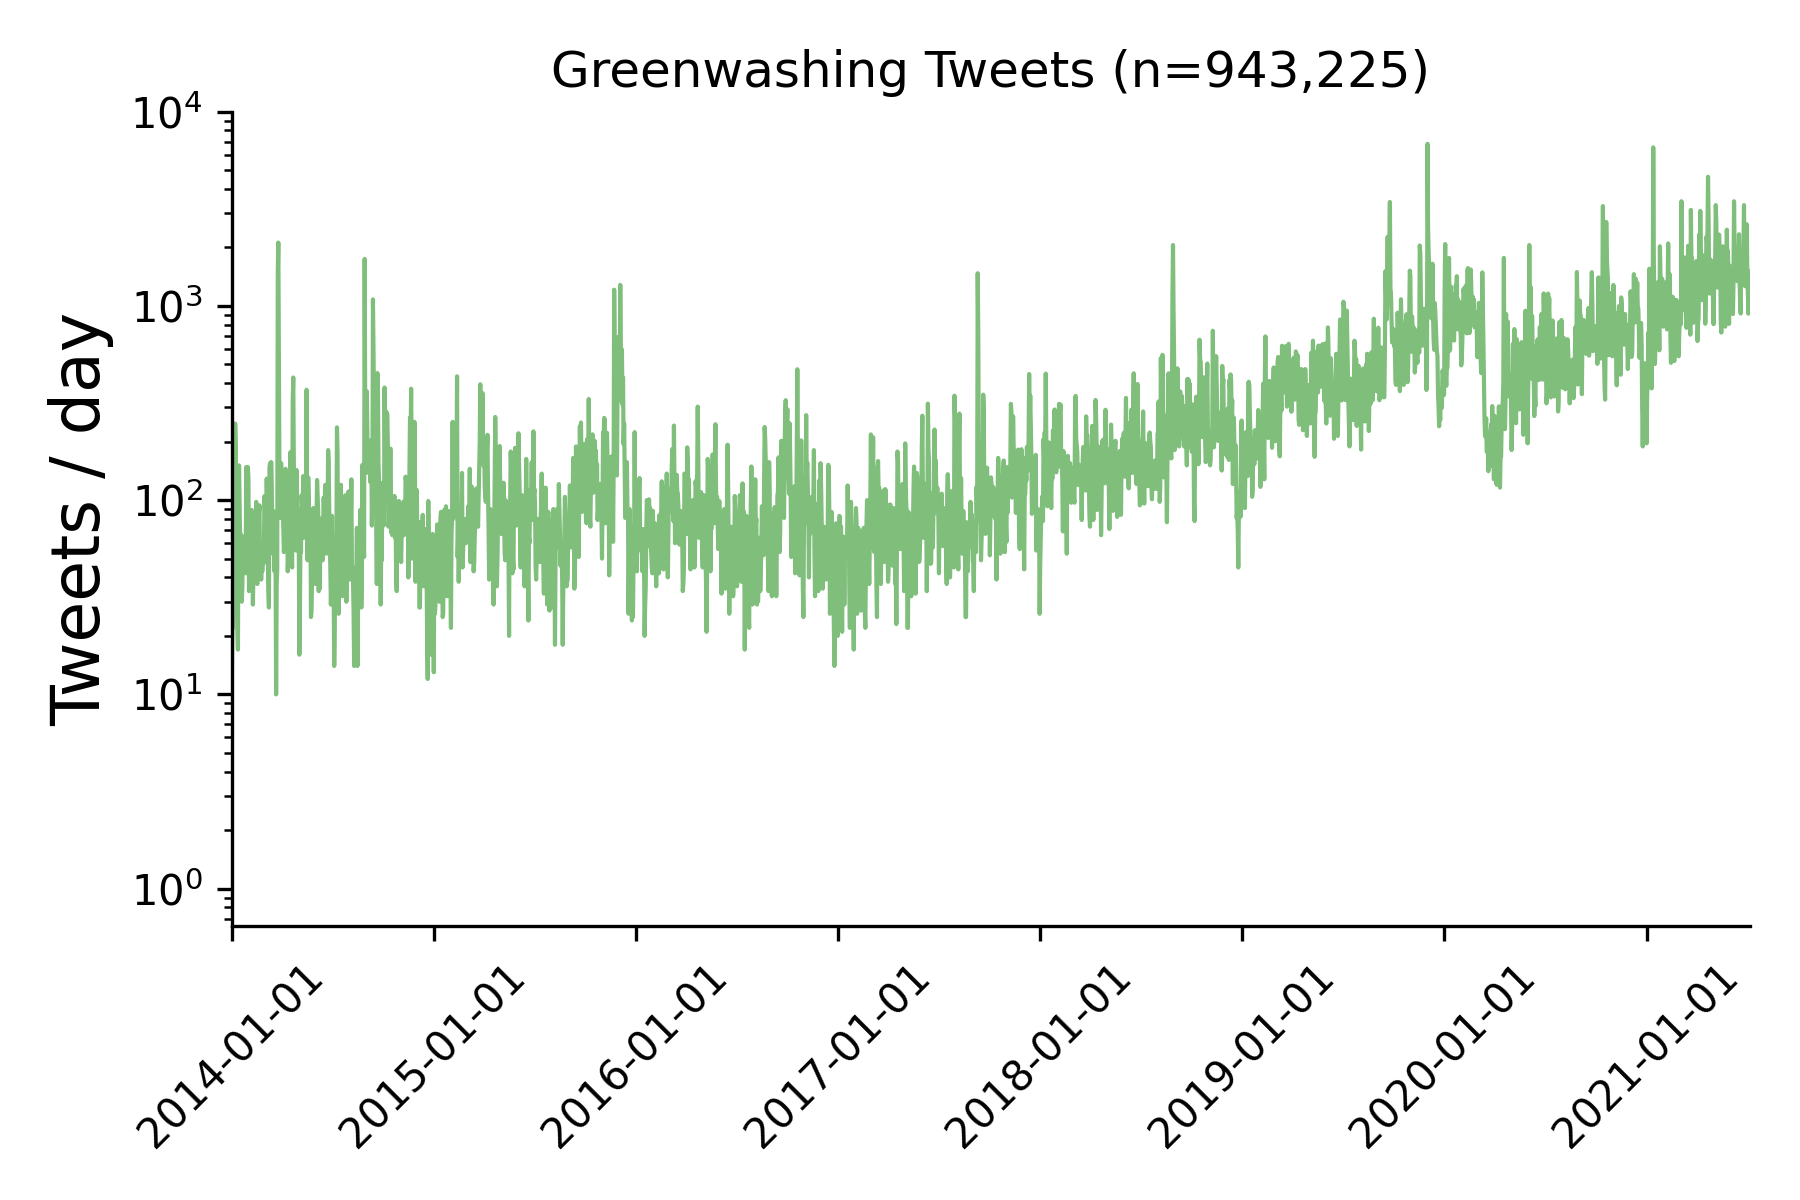
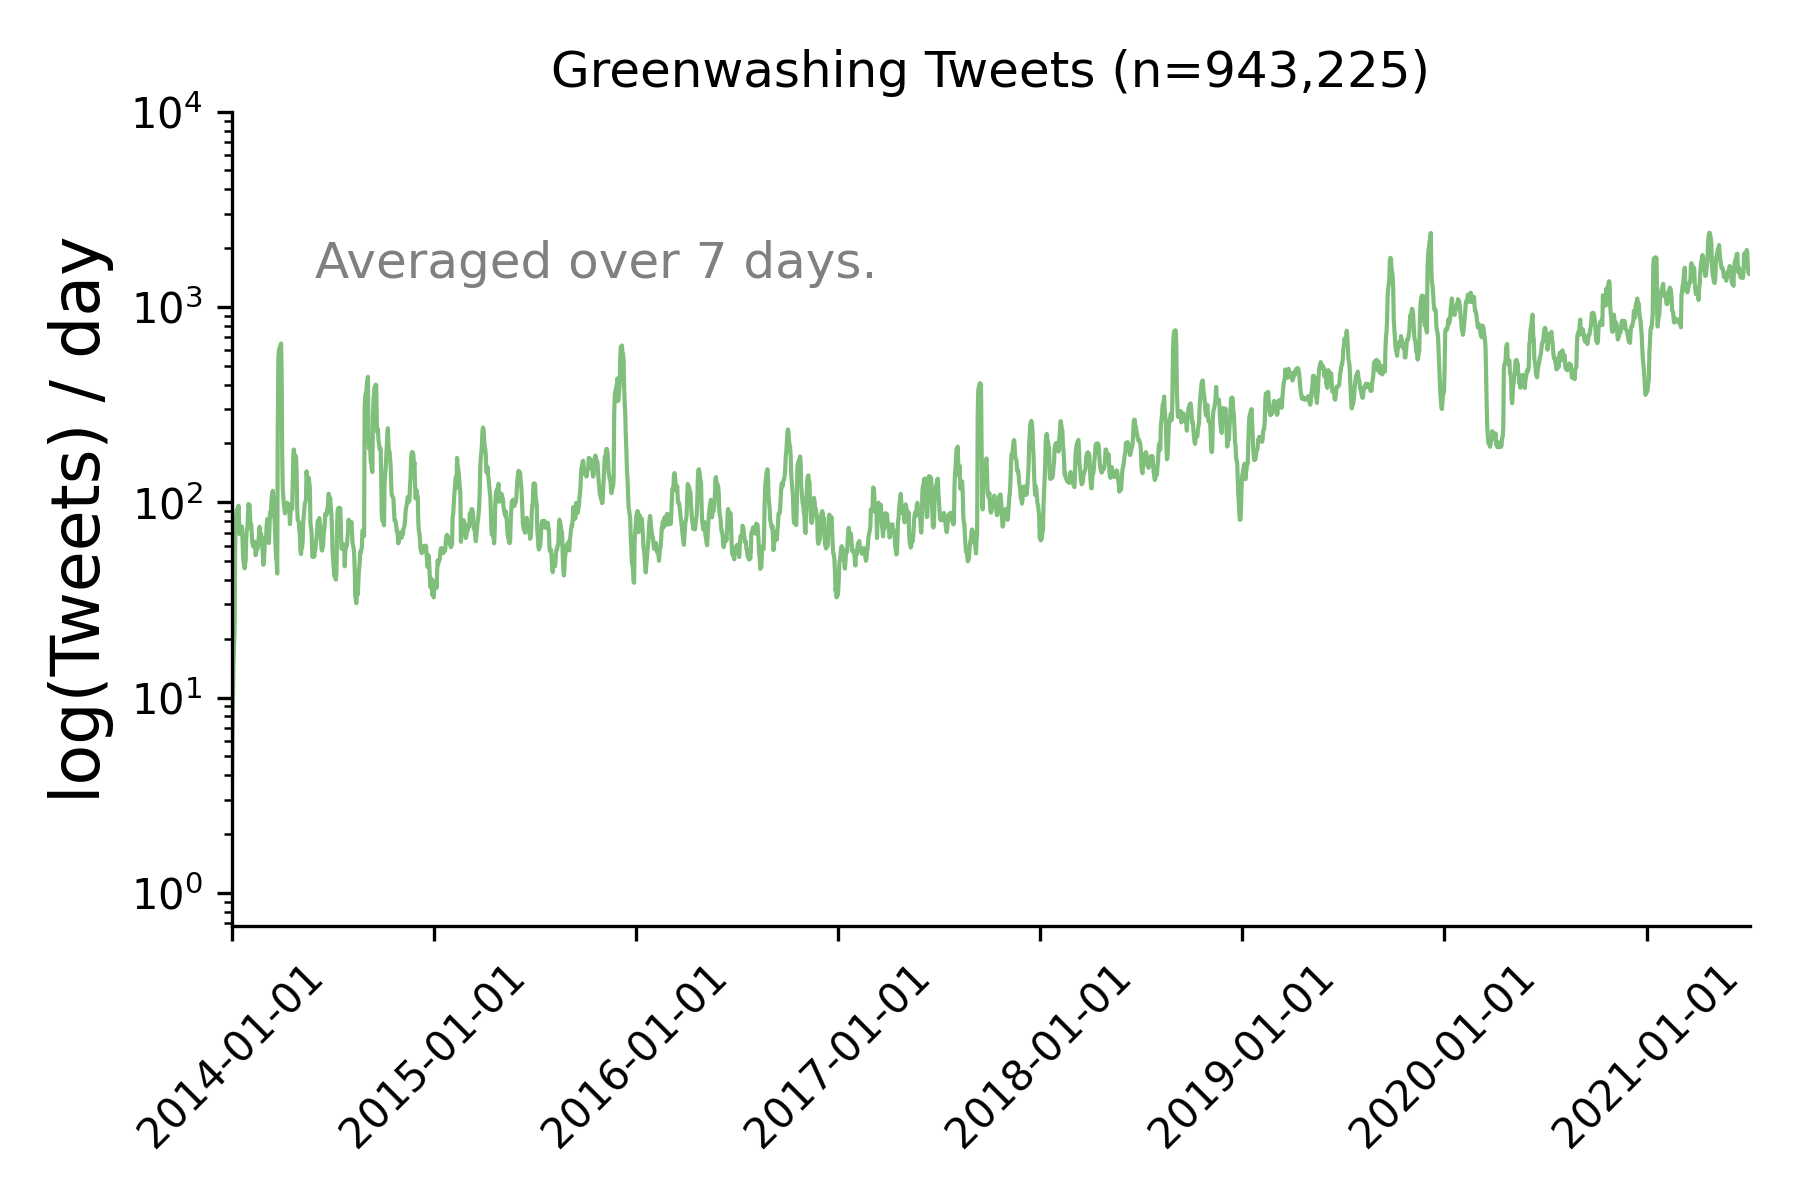
Added descriptions

diff --git a/README.md b/README.md
@@ -1,2 +1,26 @@
 # inauthentic_protest
 This is a collaborative project during the Digital Methods Initiative Summer School 2021
+
+## Data  
+
+### Included Datasets
+
+So far, we included different data sets relating to the theme of #greenwashing. We use a multi-platform approach. This repository focuses on the most extensive dataset: Twitter data. The following sets are ranked by time and size.
+
+- greenwashing_count. Time period: since 2006, when Twitter was established. This is a simple ```count``` dataset that gives us the tweets per day. We used this data to decide what our focus should be.
+- **greenwashing**.  Time period: 01.01.2014 until 07.07.2021. This is the most extensive database which includes 943225 tweets. The most active day is 2019-12-02: 6831 tweets.
+- **account_replies** We have multiple smaller files that only include replies to certain company accounts that are correlated with the term "greenwashing." This includes vw, hm, shell, and db/bahn.
+
+All data sets were downloaded using twarc, using the script ```code/get_data.ipynb``` (see section [Getting data from Twitter](#getting-data-from-twitter)). The respective queries for each data set are stored in the folder ```code/queries```. Files are stored in a different repository that is not open to the public.
+
+In this repository we store only the Tweet IDs and Conversation IDs of the Tweets and conversations that were included in the data analysis. We do not store full tweets, due to restrictions in the Twitter terms of use. Using the Tweet IDs stored in ```data/tweet-IDs```, you can "rehydrate" the corresponding tweets, using for example [twarc](https://scholarslab.github.io/learn-twarc/06-twarc-command-basics#rehydrate-a-dataset) by typing  
+
+```twarc2 hydrate tweet_ids.txt > tweets_hydrated.jsonl```  
+
+in your command line. Similarly, by using the [twarc conversations](https://twarc-project.readthedocs.io/en/latest/twarc2/#conversations) utility, you can retrieve all Tweets belonging to a converation ID  
+
+```twarc2 conversations conversation_ids.txt conversations.jsonl```
+
+### Getting data from Twitter
+
+Data from Twitter can be scraped via the [Twitter v2 API](https://developer.twitter.com/en/docs/twitter-api/early-access). To get access to full archival search (i.e. be able to search for Tweets that were tweeted longer than one week ago), you will need ["academic access"](https://developer.twitter.com/en/products/twitter-api/academic-research) to the twitter API. Once you have access, scraping tweets is fairly easy, using for example the command line tool [twarc](https://twarc-project.readthedocs.io/en/latest/twarc2/#conversations). We provide scripts that scrape the data for our hashtag(s) of interest in the folder ```code```(see ```basic-twarc-code.txt``` and ```get_data.ipynb```).

diff --git a/plots/readme.md b/plots/readme.md
@@ -1,0 +1,21 @@
+# Frequencies
+
+This files briefly explains the main plots and their general meaning. See ```code``` to understand the reasoning
+
+For a start, here are key frequencies from the ```greenwashing.csv``` dataset:
+
+- greenwashing: 943225 Tweets
+  max tweet_count    6831, : Name: 2019-12-02,
+- 395542 users are tweeting about Greenwashing.
+- 681353 users have provided a location
+
+## Plots
+
+- **greenwashing_freq_linear**: This plot displays all tweet activities from 2014 until today with a matplotlib line graph. It uses tweets per day as the basic unit. Included in the graph are annotations for three significant spikes. What we can see here is that discussions revolving around greenwashing are relatively new (also compared with the longer history of activities on Twitter). It is a significant term from 2018 onwards.
+- **greenwashing_freq_linear_zoom**: By zooming in into the same data we get a more detailed view the most recent year of activities and spikes.
+- **greenwashing_freq_log**: This plot presents an alternative view on the tweet activities since 2014, using a logarithmic scale and average tweet values for 7 days. Spikes are thus reduced, we can see the trend of growing activities from 2018 more clearly. Note that spikes are more difficult to acknowledge.
+- **greenwashing_users_freq**: This is a rather boring plot, only showing one plot with total users. We might use the visualization for comparisons later. Now it simply displays the 395542 unique users.
+- **greenwashing_follower_user**: The plot groups the users by followers. The majority of accounts have <1,000 users, yet a significant part of the users has >10,000 users. 
+- **hashtag_correlation_greenwashing**: This matrix shows us co-hashtag occurence and draws on a mathematical model to display correlations between tweets. Credits go to [Our Coding Club and James](https://ourcodingclub.github.io/tutorials/topic-modelling-python/). The hashtags included in the ```entities.hashtags``` were collected and cleaned (merging similar hashtags, like Climatechange and climatechange). Correlations range from +1 until -1. This indicates probabilities, colours represent the values. A value of "0" implies no directed correlation, although hashtags might appear together. Positive correlations imply that is more likely that terms appear together, a negative correlation indicates that when x hashtag appears, it is less likely that a respective other hashtag occurs.
+- **hashtag_correlation_greenwashing_heatmapz**: This is the same matrix, but with one additional visual clue. Apart from colouring correlations are also reflected through size. The same values are used for this calculation. In theory, this enable finding significant correlations more easily.
+
